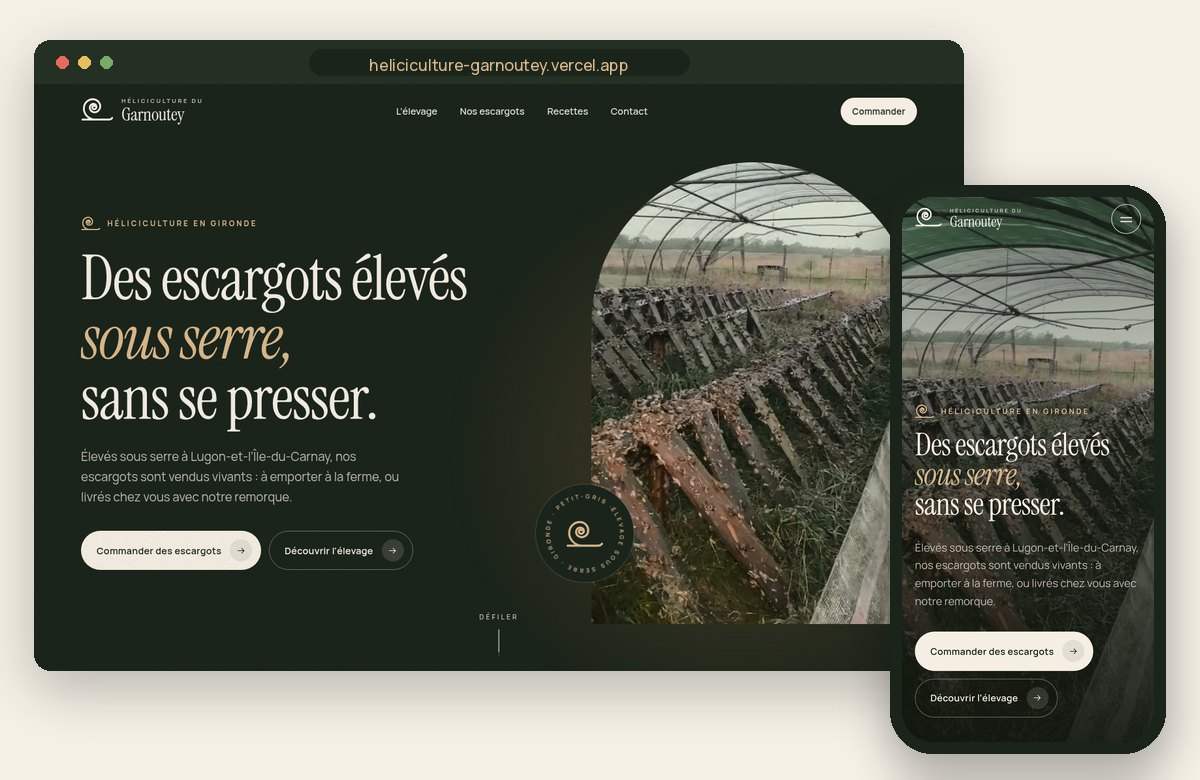
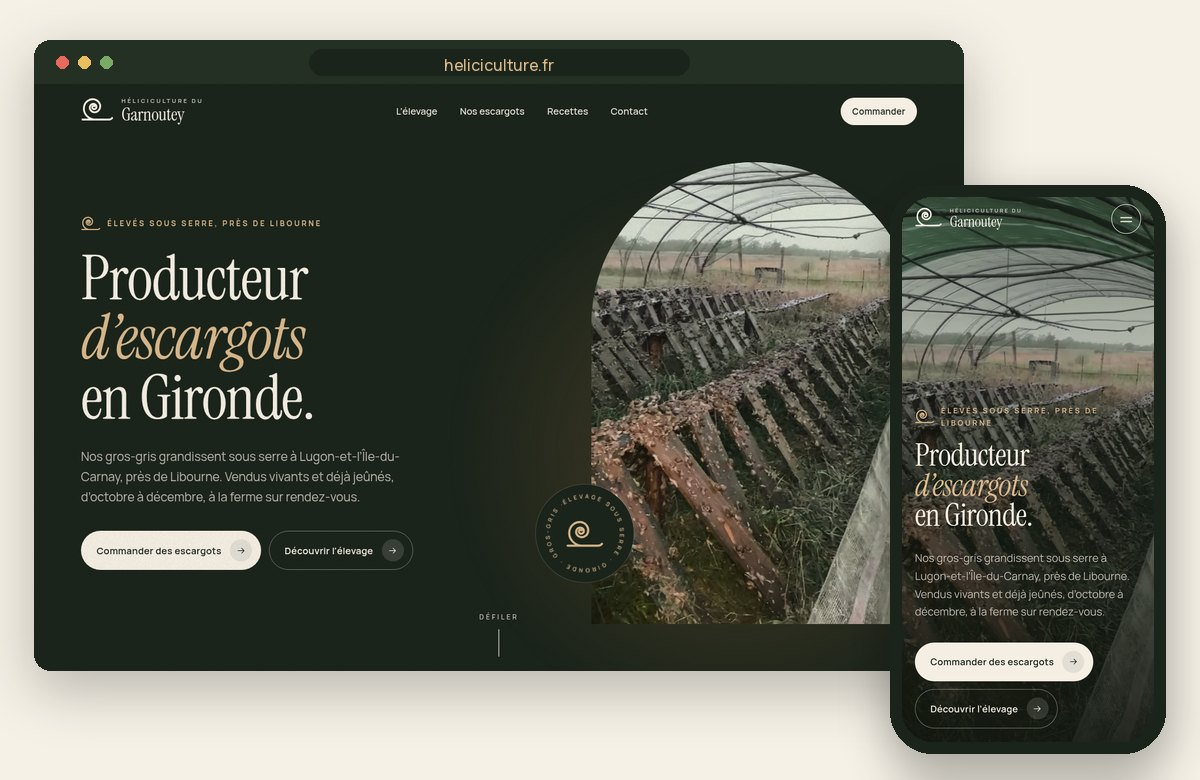
Héliciculture : visuels du mail à jour (aperçu du site en ligne), anciens visuels retirés
Claude-Session: https://claude.ai/code/session_0196nDPGppGScQdv3UFR85iJ

diff --git a/heliciculture-garnoutey/tools/mail/Garnoutey-mail.html b/heliciculture-garnoutey/tools/mail/Garnoutey-mail.html
@@ -1,62 +1,47 @@
 <!doctype html>
 <html lang="fr"><head><meta charset="utf-8"><meta name="viewport" content="width=device-width, initial-scale=1">
-<title>Joël, ton site est prêt</title></head>
+<title>Joël, ton site est en ligne</title></head>
 <body style="margin:0;padding:0;background-color:#e9e1d2">
 <div style="margin:0;padding:0;background-color:#e9e1d2">
-<div style="display:none;max-height:0;overflow:hidden;font-size:1px;line-height:1px;color:#e9e1d2">Tes escargots vivants, à emporter à la ferme. Le devis et 6 questions pour le finir.</div>
+<div style="display:none;max-height:0;overflow:hidden;font-size:1px;line-height:1px;color:#e9e1d2">Ton site est en ligne et ouvert à Google. La suite&nbsp;: ta fiche Google, les avis, ton médiateur.</div>
 <table role="presentation" cellspacing="0" cellpadding="0" border="0" width="100%" bgcolor="#e9e1d2" style="background-color:#e9e1d2"><tr><td align="center" style="padding:28px 10px 34px">
 <table role="presentation" cellspacing="0" cellpadding="0" border="0" width="600" bgcolor="#f6f1e7" style="width:100%;max-width:600px;background-color:#f6f1e7;font-family:'Helvetica Neue',Helvetica,Arial,sans-serif;color:#1d1a16">
 
-<tr><td align="center" style="padding:40px 40px 0"><a href="https://heliciculture-garnoutey.vercel.app" target="_blank"><img src="https://heliciculture-garnoutey.vercel.app/mail/logo.png" width="300" alt="Héliciculture du Garnoutey" style="display:block;width:300px;max-width:100%;height:auto;border:0;margin:0 auto"></a></td></tr>
+<tr><td align="center" style="padding:40px 40px 0"><a href="https://heliciculture.fr" target="_blank"><img src="https://heliciculture.fr/mail/logo.png" width="300" alt="Héliciculture du Garnoutey" style="display:block;width:300px;max-width:100%;height:auto;border:0;margin:0 auto"></a></td></tr>
 <tr><td align="center" style="padding:18px 40px 0">
 <table role="presentation" cellspacing="0" cellpadding="0" border="0" align="center"><tr><td width="44" height="1" bgcolor="#a8743f" style="background-color:#a8743f;font-size:0;line-height:0">&nbsp;</td></tr></table>
 <p style="margin:14px 0 0;font-size:10px;font-weight:bold;letter-spacing:4px;text-transform:uppercase;color:#5e584d">Escargots élevés sous serre · Gironde</p>
 </td></tr>
 
 <tr><td align="center" style="padding:32px 44px 0">
-<h1 style="margin:0 0 14px;font-family:Georgia,'Times New Roman',serif;font-weight:normal;font-size:36px;line-height:1.15;color:#1d1a16">Joël, <em style="color:#a8743f">ton site est prêt.</em></h1>
-<p style="margin:0 0 24px;font-size:15px;line-height:1.7;color:#3a352d">Tes escargots vivants, à emporter à la ferme, et la façon de les préparer. Sur ordinateur comme sur téléphone.</p>
-<table role="presentation" cellspacing="0" cellpadding="0" border="0" align="center"><tr><td bgcolor="#1b241b" style="background-color:#1b241b;border-radius:999px"><a href="https://heliciculture-garnoutey.vercel.app" target="_blank" style="display:inline-block;padding:18px 30px;font-family:'Helvetica Neue',Helvetica,Arial,sans-serif;font-size:12px;font-weight:bold;white-space:nowrap;letter-spacing:2px;text-transform:uppercase;color:#f4eee3;text-decoration:none;border-radius:999px">Découvrir mon site&nbsp;&nbsp;&rarr;</a></td></tr></table>
+<h1 style="margin:0 0 14px;font-family:Georgia,'Times New Roman',serif;font-weight:normal;font-size:36px;line-height:1.15;color:#1d1a16">Joël, <em style="color:#a8743f">ton site est en ligne.</em></h1>
+<p style="margin:0 0 24px;font-size:15px;line-height:1.7;color:#3a352d">Ton site est en ligne à son adresse définitive, et ouvert à Google. Il est fait pour sortir quand on cherche des escargots en Gironde.</p>
+<table role="presentation" cellspacing="0" cellpadding="0" border="0" align="center"><tr><td bgcolor="#1b241b" style="background-color:#1b241b;border-radius:999px"><a href="https://heliciculture.fr" target="_blank" style="display:inline-block;padding:18px 30px;font-family:'Helvetica Neue',Helvetica,Arial,sans-serif;font-size:12px;font-weight:bold;white-space:nowrap;letter-spacing:2px;text-transform:uppercase;color:#f4eee3;text-decoration:none;border-radius:999px">heliciculture.fr&nbsp;&nbsp;&rarr;</a></td></tr></table>
 </td></tr>
 
-<tr><td style="padding:28px 0 0"><a href="https://heliciculture-garnoutey.vercel.app" target="_blank"><img src="https://heliciculture-garnoutey.vercel.app/mail/apercu.jpg" width="600" alt="Aperçu du site sur ordinateur et sur téléphone" style="display:block;width:100%;max-width:600px;height:auto;border:0"></a></td></tr>
+<tr><td style="padding:28px 0 0"><a href="https://heliciculture.fr" target="_blank"><img src="https://heliciculture.fr/mail/apercu.jpg" width="600" alt="Aperçu du site sur ordinateur et sur téléphone" style="display:block;width:100%;max-width:600px;height:auto;border:0"></a></td></tr>
 
 <tr><td style="padding:34px 44px 0">
-<p style="margin:0 0 8px;font-family:'Helvetica Neue',Helvetica,Arial,sans-serif;font-size:10px;font-weight:bold;letter-spacing:4px;text-transform:uppercase;color:#8a5a2b">Ce que ton site va t’apporter</p>
-<p style="margin:0 0 14px;font-family:Georgia,'Times New Roman',serif;font-size:27px;line-height:1.2;color:#1d1a16">Des acheteurs, <em style="color:#a8743f">sans courir après.</em></p>
-<table role="presentation" cellspacing="0" cellpadding="0" border="0" width="100%" style="border-bottom:1px solid #e2d8c5"><tr><td width="40" valign="top" style="padding:13px 0;border-top:1px solid #e2d8c5;font-family:Georgia,'Times New Roman',serif;font-style:italic;font-size:19px;line-height:1.3;color:#a8743f">I.</td><td valign="top" style="padding:13px 0;border-top:1px solid #e2d8c5"><p style="margin:0;font-family:Georgia,'Times New Roman',serif;font-size:19px;line-height:1.3;color:#1d1a16">Trouvé sur Google</p><p style="margin:3px 0 0;font-size:14px;line-height:1.55;color:#5e584d">«&nbsp;escargots vivants Gironde&nbsp;», «&nbsp;héliciculteur Gironde&nbsp;», «&nbsp;escargots pour les fêtes&nbsp;»…</p></td></tr><tr><td width="40" valign="top" style="padding:13px 0;border-top:1px solid #e2d8c5;font-family:Georgia,'Times New Roman',serif;font-style:italic;font-size:19px;line-height:1.3;color:#a8743f">II.</td><td valign="top" style="padding:13px 0;border-top:1px solid #e2d8c5"><p style="margin:0;font-family:Georgia,'Times New Roman',serif;font-size:19px;line-height:1.3;color:#1d1a16">Une offre pour chaque acheteur</p><p style="margin:3px 0 0;font-size:14px;line-height:1.55;color:#5e584d">Particuliers, restaurants et traiteurs, revendeurs.</p></td></tr><tr><td width="40" valign="top" style="padding:13px 0;border-top:1px solid #e2d8c5;font-family:Georgia,'Times New Roman',serif;font-style:italic;font-size:19px;line-height:1.3;color:#a8743f">III.</td><td valign="top" style="padding:13px 0;border-top:1px solid #e2d8c5"><p style="margin:0;font-family:Georgia,'Times New Roman',serif;font-size:19px;line-height:1.3;color:#1d1a16">Commander en deux minutes</p><p style="margin:3px 0 0;font-size:14px;line-height:1.55;color:#5e584d">Le formulaire t’envoie la commande par e-mail, ou on t’appelle directement.</p></td></tr></table>
-</td></tr>
-
-<tr><td style="padding:34px 0 0">
-<table role="presentation" cellspacing="0" cellpadding="0" border="0" width="100%" bgcolor="#1b241b" style="background-color:#1b241b"><tr><td style="padding:32px 44px 34px">
-<p style="margin:0 0 8px;font-family:'Helvetica Neue',Helvetica,Arial,sans-serif;font-size:10px;font-weight:bold;letter-spacing:4px;text-transform:uppercase;color:#d9b88c">Le devis</p>
-<p style="margin:0 0 16px;font-family:Georgia,'Times New Roman',serif;font-size:27px;line-height:1.2;color:#f4eee3">Un prix d’ami, <em style="color:#d9b88c">en 3&nbsp;fois.</em></p>
-<table role="presentation" cellspacing="0" cellpadding="0" border="0" width="100%" style="border-top:1px solid #2f3a2e;border-bottom:1px solid #2f3a2e"><tr>
-<td style="padding:16px 0 18px">
-<p style="margin:0;font-size:12px;letter-spacing:1px;text-transform:uppercase;color:#aaa596">Prix habituel <span style="text-decoration:line-through;white-space:nowrap">1&nbsp;690&nbsp;€&nbsp;HT</span></p>
-<p style="margin:4px 0 0;font-family:Georgia,'Times New Roman',serif;font-size:40px;line-height:1.1;color:#f4eee3;white-space:nowrap">950&nbsp;€ <span style="font-size:18px;color:#aaa596">HT</span></p>
-<p style="margin:8px 0 0;font-size:14px;line-height:1.6;color:#aaa596">Soit <strong style="color:#f4eee3">3&nbsp;fois 380&nbsp;€&nbsp;TTC</strong>, puis 120&nbsp;€&nbsp;HT par an pour l’hébergement, le nom de domaine et les petites modifications.</p>
-</td></tr></table>
-<p style="margin:16px 0 0;font-size:14px;line-height:1.6;color:#aaa596">Devis en pièce jointe. <strong style="color:#d9b88c">Offerte avec le site&nbsp;:</strong> une liste d’acheteurs près de chez toi, prête à appeler (restaurants, traiteurs, marchés).</p>
-</td></tr></table>
+<p style="margin:0 0 8px;font-family:'Helvetica Neue',Helvetica,Arial,sans-serif;font-size:10px;font-weight:bold;letter-spacing:4px;text-transform:uppercase;color:#8a5a2b">Ce qu’on a fait</p>
+<p style="margin:0 0 14px;font-family:Georgia,'Times New Roman',serif;font-size:27px;line-height:1.2;color:#1d1a16">Un site fait pour <em style="color:#a8743f">être trouvé.</em></p>
+<table role="presentation" cellspacing="0" cellpadding="0" border="0" width="100%" style="border-bottom:1px solid #e2d8c5"><tr><td width="40" valign="top" style="padding:13px 0;border-top:1px solid #e2d8c5;font-family:Georgia,'Times New Roman',serif;font-style:italic;font-size:19px;line-height:1.3;color:#a8743f">I.</td><td valign="top" style="padding:13px 0;border-top:1px solid #e2d8c5"><p style="margin:0;font-family:Georgia,'Times New Roman',serif;font-size:19px;line-height:1.3;color:#1d1a16">Une page par recherche</p><p style="margin:3px 0 0;font-size:14px;line-height:1.55;color:#5e584d">«&nbsp;producteur d’escargots en Gironde&nbsp;», «&nbsp;escargots vivants à vendre&nbsp;», «&nbsp;préparer des escargots vivants&nbsp;».</p></td></tr><tr><td width="40" valign="top" style="padding:13px 0;border-top:1px solid #e2d8c5;font-family:Georgia,'Times New Roman',serif;font-style:italic;font-size:19px;line-height:1.3;color:#a8743f">II.</td><td valign="top" style="padding:13px 0;border-top:1px solid #e2d8c5"><p style="margin:0;font-family:Georgia,'Times New Roman',serif;font-size:19px;line-height:1.3;color:#1d1a16">De quoi donner confiance</p><p style="margin:3px 0 0;font-size:14px;line-height:1.55;color:#5e584d">Un guide pour préparer les escargots, un calculateur «&nbsp;combien en prendre&nbsp;», une page par recette.</p></td></tr><tr><td width="40" valign="top" style="padding:13px 0;border-top:1px solid #e2d8c5;font-family:Georgia,'Times New Roman',serif;font-style:italic;font-size:19px;line-height:1.3;color:#a8743f">III.</td><td valign="top" style="padding:13px 0;border-top:1px solid #e2d8c5"><p style="margin:0;font-family:Georgia,'Times New Roman',serif;font-size:19px;line-height:1.3;color:#1d1a16">Proche de chez toi, sans l’adresse</p><p style="margin:3px 0 0;font-size:14px;line-height:1.55;color:#5e584d">Les temps de route depuis Libourne, Saint-André-de-Cubzac et Bordeaux. L’adresse de la ferme n’apparaît jamais.</p></td></tr></table>
 </td></tr>
 
 <tr><td style="padding:34px 44px 0">
-<p style="margin:0 0 8px;font-family:'Helvetica Neue',Helvetica,Arial,sans-serif;font-size:10px;font-weight:bold;letter-spacing:4px;text-transform:uppercase;color:#8a5a2b">Pour le finir</p>
-<p style="margin:0 0 12px;font-family:Georgia,'Times New Roman',serif;font-size:27px;line-height:1.2;color:#1d1a16">Il ne manque <em style="color:#a8743f">que tes réponses.</em></p>
-<p style="margin:0 0 12px;font-size:14px;line-height:1.6;color:#5e584d">Le site est encore caché de Google&nbsp;: on l’ouvre dès que tu as répondu.</p>
-<table role="presentation" cellspacing="0" cellpadding="0" border="0" width="100%" style="border-bottom:1px solid #e2d8c5"><tr><td width="34" valign="top" style="padding:10px 0;border-top:1px solid #e2d8c5;font-family:Georgia,'Times New Roman',serif;font-style:italic;font-size:15px;color:#a8743f">01</td><td valign="top" style="padding:10px 0;border-top:1px solid #e2d8c5;font-family:'Helvetica Neue',Helvetica,Arial,sans-serif;font-size:14px;line-height:1.55;color:#1d1a16">Le retrait à la ferme&nbsp;: quels jours, quel minimum de commande&nbsp;?</td></tr><tr><td width="34" valign="top" style="padding:10px 0;border-top:1px solid #e2d8c5;font-family:Georgia,'Times New Roman',serif;font-style:italic;font-size:15px;color:#a8743f">02</td><td valign="top" style="padding:10px 0;border-top:1px solid #e2d8c5;font-family:'Helvetica Neue',Helvetica,Arial,sans-serif;font-size:14px;line-height:1.55;color:#1d1a16">Tes prix&nbsp;: à la douzaine, au kilo, et pour les pros&nbsp;?</td></tr><tr><td width="34" valign="top" style="padding:10px 0;border-top:1px solid #e2d8c5;font-family:Georgia,'Times New Roman',serif;font-style:italic;font-size:15px;color:#a8743f">03</td><td valign="top" style="padding:10px 0;border-top:1px solid #e2d8c5;font-family:'Helvetica Neue',Helvetica,Arial,sans-serif;font-size:14px;line-height:1.55;color:#1d1a16">Petits-gris ou gros-gris&nbsp;? Vendus jeûnés&nbsp;? Nourris avec quoi&nbsp;?</td></tr><tr><td width="34" valign="top" style="padding:10px 0;border-top:1px solid #e2d8c5;font-family:Georgia,'Times New Roman',serif;font-style:italic;font-size:15px;color:#a8743f">04</td><td valign="top" style="padding:10px 0;border-top:1px solid #e2d8c5;font-family:'Helvetica Neue',Helvetica,Arial,sans-serif;font-size:14px;line-height:1.55;color:#1d1a16">À quelle période tu en as à vendre, et quand peut-on passer à la ferme&nbsp;?</td></tr><tr><td width="34" valign="top" style="padding:10px 0;border-top:1px solid #e2d8c5;font-family:Georgia,'Times New Roman',serif;font-style:italic;font-size:15px;color:#a8743f">05</td><td valign="top" style="padding:10px 0;border-top:1px solid #e2d8c5;font-family:'Helvetica Neue',Helvetica,Arial,sans-serif;font-size:14px;line-height:1.55;color:#1d1a16">On affiche bien le 06&nbsp;62&nbsp;49&nbsp;83&nbsp;14 et locterra33@gmail.com&nbsp;?</td></tr><tr><td width="34" valign="top" style="padding:10px 0;border-top:1px solid #e2d8c5;font-family:Georgia,'Times New Roman',serif;font-style:italic;font-size:15px;color:#a8743f">06</td><td valign="top" style="padding:10px 0;border-top:1px solid #e2d8c5;font-family:'Helvetica Neue',Helvetica,Arial,sans-serif;font-size:14px;line-height:1.55;color:#1d1a16">Un nom de domaine en tête&nbsp;? Des photos de toi à l’élevage&nbsp;?</td></tr></table>
+<p style="margin:0 0 8px;font-family:'Helvetica Neue',Helvetica,Arial,sans-serif;font-size:10px;font-weight:bold;letter-spacing:4px;text-transform:uppercase;color:#8a5a2b">La suite</p>
+<p style="margin:0 0 12px;font-family:Georgia,'Times New Roman',serif;font-size:27px;line-height:1.2;color:#1d1a16">Pour passer devant, <em style="color:#a8743f">trois choses.</em></p>
+<table role="presentation" cellspacing="0" cellpadding="0" border="0" width="100%" style="border-bottom:1px solid #e2d8c5"><tr><td width="40" valign="top" style="padding:13px 0;border-top:1px solid #e2d8c5;font-family:Georgia,'Times New Roman',serif;font-style:italic;font-size:19px;line-height:1.3;color:#a8743f">1.</td><td valign="top" style="padding:13px 0;border-top:1px solid #e2d8c5"><p style="margin:0;font-family:Georgia,'Times New Roman',serif;font-size:19px;line-height:1.3;color:#1d1a16">Ta fiche Google</p><p style="margin:3px 0 0;font-size:14px;line-height:1.55;color:#5e584d">On la crée cette semaine, avec ton adresse cachée. Google t’envoie un code (SMS, appel ou e-mail) ou te demande une courte vidéo de la ferme. Préviens-nous dès que tu le reçois.</p></td></tr><tr><td width="40" valign="top" style="padding:13px 0;border-top:1px solid #e2d8c5;font-family:Georgia,'Times New Roman',serif;font-style:italic;font-size:19px;line-height:1.3;color:#a8743f">2.</td><td valign="top" style="padding:13px 0;border-top:1px solid #e2d8c5"><p style="margin:0;font-family:Georgia,'Times New Roman',serif;font-size:19px;line-height:1.3;color:#1d1a16">Les avis</p><p style="margin:3px 0 0;font-size:14px;line-height:1.55;color:#5e584d">Une fois la fiche validée, on te prépare une carte avec un QR code à donner à tes clients au retrait.</p></td></tr><tr><td width="40" valign="top" style="padding:13px 0;border-top:1px solid #e2d8c5;font-family:Georgia,'Times New Roman',serif;font-style:italic;font-size:19px;line-height:1.3;color:#a8743f">3.</td><td valign="top" style="padding:13px 0;border-top:1px solid #e2d8c5"><p style="margin:0;font-family:Georgia,'Times New Roman',serif;font-size:19px;line-height:1.3;color:#1d1a16">Ton médiateur de la consommation</p><p style="margin:3px 0 0;font-size:14px;line-height:1.55;color:#5e584d">Il est obligatoire pour vendre aux particuliers. C’est le point le plus urgent.</p></td></tr></table>
 </td></tr>
 
 <tr><td style="padding:26px 44px 36px">
-<p style="margin:0 0 18px;font-size:15px;line-height:1.7;color:#3a352d">Renvoie-moi le devis signé avec tes réponses, et on met le site en ligne dans la semaine.</p>
+<p style="margin:0 0 18px;font-size:15px;line-height:1.7;color:#3a352d">Un site neuf met quelques semaines à monter dans Google. Réponds simplement à ce mail, ou appelle-nous.</p>
 <p style="margin:0 0 4px;font-size:15px;color:#1d1a16">À très vite,</p>
 <p style="margin:0;font-family:Georgia,'Times New Roman',serif;font-size:22px;color:#1d1a16">Driss REDOUANE</p>
 <p style="margin:3px 0 0;font-size:13px;color:#5e584d">Groupe Amane Conseils · <a href="tel:+33695675027" style="color:#8a5a2b;text-decoration:none">06&nbsp;95&nbsp;67&nbsp;50&nbsp;27</a></p>
 </td></tr>
 
 <tr><td align="center" bgcolor="#1b241b" style="background-color:#1b241b;padding:28px 30px 24px">
-<a href="https://heliciculture-garnoutey.vercel.app" target="_blank"><img src="https://heliciculture-garnoutey.vercel.app/mail/logo-sombre.png" width="200" alt="Héliciculture du Garnoutey" style="display:block;width:200px;height:auto;border:0;margin:0 auto 14px"></a>
+<a href="https://heliciculture.fr" target="_blank"><img src="https://heliciculture.fr/mail/logo-sombre.png" width="200" alt="Héliciculture du Garnoutey" style="display:block;width:200px;height:auto;border:0;margin:0 auto 14px"></a>
 <p style="margin:0;font-size:11px;line-height:1.6;color:#aaa596">Site conçu par Groupe Amane Conseils · <a href="https://www.amaneconseils.com" target="_blank" style="color:#aaa596">amaneconseils.com</a></p>
 </td></tr>
 

diff --git a/heliciculture-garnoutey/tools/mail/captures.js b/heliciculture-garnoutey/tools/mail/captures.js
@@ -1,6 +1,6 @@
 // Captures du site en ligne pour les visuels du mail (sans l'intro, animations terminées, vidéo lancée).
 const { chromium } = require('/home/user/heliciculture-garnoutey/source/tests/node_modules/playwright-core');
-const base = process.argv[2] || 'https://heliciculture-garnoutey.vercel.app';
+const base = process.argv[2] || 'https://heliciculture.fr';
 const out = __dirname + '/shots';
 (async () => {
   const b = await chromium.launch({ executablePath: '/opt/pw-browsers/chromium-1194/chrome-linux/chrome', args: ['--autoplay-policy=no-user-gesture-required'] });

diff --git a/heliciculture-garnoutey/tools/mail/mail.py b/heliciculture-garnoutey/tools/mail/mail.py
@@ -1,36 +1,32 @@
 """Mail de présentation du site à Joël (même facture que les mails CLOS, PRISMA et Grandes Tables d'Aquitaine).
 HTML en tableaux de 600 px, styles en ligne, images hébergées avec le site (/mail/), couleurs du site.
 Version courte (demande de Driss, 06/10/2026) : sans la section vidéo, l'essentiel en un écran ou deux.
-Usage : python3 mail.py [adresse du site]   (défaut : https://heliciculture-garnoutey.vercel.app)
+Usage : python3 mail.py [adresse du site]   (défaut : https://heliciculture.fr)
+Version du 19/10/2026 : « ton site est en ligne » (référencement, fiche Google, médiateur), sans devis ni questions.
 Écrit Garnoutey-mail.html (images en ligne), Garnoutey-mail-body.html (contenu du <body>, pour le brouillon),
 Garnoutey-mail.txt (version texte du brouillon) et preview.html (images locales, pour vérifier le rendu)."""
 import os, re, sys
 HERE = os.path.dirname(os.path.abspath(__file__))
 ROOT = os.path.dirname(os.path.dirname(HERE))
-SITE = (sys.argv[1] if len(sys.argv) > 1 else 'https://heliciculture-garnoutey.vercel.app').rstrip('/')
+SITE = (sys.argv[1] if len(sys.argv) > 1 else 'https://heliciculture.fr').rstrip('/')
 
 SANS = "'Helvetica Neue',Helvetica,Arial,sans-serif"
 SERIF = "Georgia,'Times New Roman',serif"
 C = dict(bg='#e9e1d2', card='#f6f1e7', ink='#1d1a16', body='#3a352d', muted='#5e584d', caramel='#8a5a2b', caramel2='#a8743f',
          rule='#e2d8c5', moss='#1b241b', moss_rule='#2f3a2e', ivory='#f4eee3', soft='#d9b88c', grey='#aaa596')
 
-INTRO = 'Tes escargots vivants, à emporter à la ferme, et la façon de les préparer. Sur ordinateur comme sur téléphone.'
+INTRO = 'Ton site est en ligne à son adresse définitive, et ouvert à Google. Il est fait pour sortir quand on cherche des escargots en Gironde.'
 POINTS = [
-    ('I', 'Trouvé sur Google', '« escargots vivants Gironde », « héliciculteur Gironde », « escargots pour les fêtes »…'),
-    ('II', 'Une offre pour chaque acheteur', 'Particuliers, restaurants et traiteurs, revendeurs.'),
-    ('III', 'Commander en deux minutes', 'Le formulaire t’envoie la commande par e-mail, ou on t’appelle directement.'),
+    ('I', 'Une page par recherche', '« producteur d’escargots en Gironde », « escargots vivants à vendre », « préparer des escargots vivants ».'),
+    ('II', 'De quoi donner confiance', 'Un guide pour préparer les escargots, un calculateur « combien en prendre », une page par recette.'),
+    ('III', 'Proche de chez toi, sans l’adresse', 'Les temps de route depuis Libourne, Saint-André-de-Cubzac et Bordeaux. L’adresse de la ferme n’apparaît jamais.'),
 ]
-# devis 2026-HDG-001 : 950 € HT (1 690 € HT au prix habituel, liste d'acheteurs offerte), 3 fois 380 € TTC
-CADEAU = 'une liste d’acheteurs près de chez toi, prête à appeler (restaurants, traiteurs, marchés).'
-QUESTIONS = [
-    'Le retrait à la ferme : quels jours, quel minimum de commande ?',
-    'Tes prix : à la douzaine, au kilo, et pour les pros ?',
-    'Petits-gris ou gros-gris ? Vendus jeûnés ? Nourris avec quoi ?',
-    'À quelle période tu en as à vendre, et quand peut-on passer à la ferme ?',
-    'On affiche bien le 06 62 49 83 14 et locterra33@gmail.com ?',
-    'Un nom de domaine en tête ? Des photos de toi à l’élevage ?',
+SUITE = [
+    ('Ta fiche Google', 'On la crée cette semaine, avec ton adresse cachée. Google t’envoie un code (SMS, appel ou e-mail) ou te demande une courte vidéo de la ferme. Préviens-nous dès que tu le reçois.'),
+    ('Les avis', 'Une fois la fiche validée, on te prépare une carte avec un QR code à donner à tes clients au retrait.'),
+    ('Ton médiateur de la consommation', 'Il est obligatoire pour vendre aux particuliers. C’est le point le plus urgent.'),
 ]
-FIN = 'Renvoie-moi le devis signé avec tes réponses, et on met le site en ligne dans la semaine.'
+FIN = 'Réponds simplement à ce mail, ou appelle-nous.'
 
 
 def button(href, label, bg, fg, pad='18px 30px'):
@@ -74,17 +70,13 @@ def typo_html(h):
 def render(img):
     s = SITE
     points = ''.join(point(*p) for p in POINTS)
-    q_rows = ''.join(
-        f'<tr><td width="34" valign="top" style="padding:10px 0;border-top:1px solid {C["rule"]};font-family:{SERIF};'
-        f'font-style:italic;font-size:15px;color:{C["caramel2"]}">{i:02d}</td>'
-        f'<td valign="top" style="padding:10px 0;border-top:1px solid {C["rule"]};font-family:{SANS};font-size:14px;line-height:1.55;color:{C["ink"]}">{t}</td></tr>'
-        for i, t in enumerate(QUESTIONS, 1))
+    q_rows = ''.join(point(str(i), t, x) for i, (t, x) in enumerate(SUITE, 1))
     return f'''<!doctype html>
 <html lang="fr"><head><meta charset="utf-8"><meta name="viewport" content="width=device-width, initial-scale=1">
-<title>Joël, ton site est prêt</title></head>
+<title>Joël, ton site est en ligne</title></head>
 <body style="margin:0;padding:0;background-color:{C["bg"]}">
 <div style="margin:0;padding:0;background-color:{C["bg"]}">
-<div style="display:none;max-height:0;overflow:hidden;font-size:1px;line-height:1px;color:{C["bg"]}">Tes escargots vivants, à emporter à la ferme. Le devis et 6 questions pour le finir.</div>
+<div style="display:none;max-height:0;overflow:hidden;font-size:1px;line-height:1px;color:{C["bg"]}">Ton site est en ligne et ouvert à Google. La suite : ta fiche Google, les avis, ton médiateur.</div>
 <table role="presentation" cellspacing="0" cellpadding="0" border="0" width="100%" bgcolor="{C["bg"]}" style="background-color:{C["bg"]}"><tr><td align="center" style="padding:28px 10px 34px">
 <table role="presentation" cellspacing="0" cellpadding="0" border="0" width="600" bgcolor="{C["card"]}" style="width:100%;max-width:600px;background-color:{C["card"]};font-family:{SANS};color:{C["ink"]}">
 
@@ -95,42 +87,27 @@ def render(img):
 </td></tr>
 
 <tr><td align="center" style="padding:32px 44px 0">
-<h1 style="margin:0 0 14px;font-family:{SERIF};font-weight:normal;font-size:36px;line-height:1.15;color:{C["ink"]}">Joël, <em style="color:{C["caramel2"]}">ton site est prêt.</em></h1>
+<h1 style="margin:0 0 14px;font-family:{SERIF};font-weight:normal;font-size:36px;line-height:1.15;color:{C["ink"]}">Joël, <em style="color:{C["caramel2"]}">ton site est en ligne.</em></h1>
 <p style="margin:0 0 24px;font-size:15px;line-height:1.7;color:{C["body"]}">{INTRO}</p>
-{button(s, 'Découvrir mon site&nbsp;&nbsp;&rarr;', C["moss"], C["ivory"])}
+{button(s, 'heliciculture.fr&nbsp;&nbsp;&rarr;', C["moss"], C["ivory"])}
 </td></tr>
 
 <tr><td style="padding:28px 0 0"><a href="{s}" target="_blank"><img src="{img}/apercu.jpg" width="600" alt="Aperçu du site sur ordinateur et sur téléphone" style="display:block;width:100%;max-width:600px;height:auto;border:0"></a></td></tr>
 
 <tr><td style="padding:34px 44px 0">
-{eyebrow('Ce que ton site va t’apporter', C["caramel"])}
-<p style="margin:0 0 14px;font-family:{SERIF};font-size:27px;line-height:1.2;color:{C["ink"]}">Des acheteurs, <em style="color:{C["caramel2"]}">sans courir après.</em></p>
+{eyebrow('Ce qu’on a fait', C["caramel"])}
+<p style="margin:0 0 14px;font-family:{SERIF};font-size:27px;line-height:1.2;color:{C["ink"]}">Un site fait pour <em style="color:{C["caramel2"]}">être trouvé.</em></p>
 <table role="presentation" cellspacing="0" cellpadding="0" border="0" width="100%" style="border-bottom:1px solid {C["rule"]}">{points}</table>
 </td></tr>
 
-<tr><td style="padding:34px 0 0">
-<table role="presentation" cellspacing="0" cellpadding="0" border="0" width="100%" bgcolor="{C["moss"]}" style="background-color:{C["moss"]}"><tr><td style="padding:32px 44px 34px">
-{eyebrow('Le devis', C["soft"])}
-<p style="margin:0 0 16px;font-family:{SERIF};font-size:27px;line-height:1.2;color:{C["ivory"]}">Un prix d’ami, <em style="color:{C["soft"]}">en 3 fois.</em></p>
-<table role="presentation" cellspacing="0" cellpadding="0" border="0" width="100%" style="border-top:1px solid {C["moss_rule"]};border-bottom:1px solid {C["moss_rule"]}"><tr>
-<td style="padding:16px 0 18px">
-<p style="margin:0;font-size:12px;letter-spacing:1px;text-transform:uppercase;color:{C["grey"]}">Prix habituel <span style="text-decoration:line-through;white-space:nowrap">1 690 € HT</span></p>
-<p style="margin:4px 0 0;font-family:{SERIF};font-size:40px;line-height:1.1;color:{C["ivory"]};white-space:nowrap">950 € <span style="font-size:18px;color:{C["grey"]}">HT</span></p>
-<p style="margin:8px 0 0;font-size:14px;line-height:1.6;color:{C["grey"]}">Soit <strong style="color:{C["ivory"]}">3 fois 380 € TTC</strong>, puis 120 € HT par an pour l’hébergement, le nom de domaine et les petites modifications.</p>
-</td></tr></table>
-<p style="margin:16px 0 0;font-size:14px;line-height:1.6;color:{C["grey"]}">Devis en pièce jointe. <strong style="color:{C["soft"]}">Offerte avec le site :</strong> {CADEAU}</p>
-</td></tr></table>
-</td></tr>
-
 <tr><td style="padding:34px 44px 0">
-{eyebrow('Pour le finir', C["caramel"])}
-<p style="margin:0 0 12px;font-family:{SERIF};font-size:27px;line-height:1.2;color:{C["ink"]}">Il ne manque <em style="color:{C["caramel2"]}">que tes réponses.</em></p>
-<p style="margin:0 0 12px;font-size:14px;line-height:1.6;color:{C["muted"]}">Le site est encore caché de Google : on l’ouvre dès que tu as répondu.</p>
+{eyebrow('La suite', C["caramel"])}
+<p style="margin:0 0 12px;font-family:{SERIF};font-size:27px;line-height:1.2;color:{C["ink"]}">Pour passer devant, <em style="color:{C["caramel2"]}">trois choses.</em></p>
 <table role="presentation" cellspacing="0" cellpadding="0" border="0" width="100%" style="border-bottom:1px solid {C["rule"]}">{q_rows}</table>
 </td></tr>
 
 <tr><td style="padding:26px 44px 36px">
-<p style="margin:0 0 18px;font-size:15px;line-height:1.7;color:{C["body"]}">{FIN}</p>
+<p style="margin:0 0 18px;font-size:15px;line-height:1.7;color:{C["body"]}">Un site neuf met quelques semaines à monter dans Google. {FIN}</p>
 <p style="margin:0 0 4px;font-size:15px;color:{C["ink"]}">À très vite,</p>
 <p style="margin:0;font-family:{SERIF};font-size:22px;color:{C["ink"]}">Driss REDOUANE</p>
 <p style="margin:3px 0 0;font-size:13px;color:{C["muted"]}">Groupe Amane Conseils · <a href="tel:+33695675027" style="color:{C["caramel"]};text-decoration:none">06 95 67 50 27</a></p>
@@ -150,22 +127,19 @@ def render(img):
 
 def texte():
     pts = '\n'.join(f'{n}. {t} : {x[0].lower() + x[1:]}' for n, t, x in POINTS)
-    qs = '\n'.join(f'{i}. {q}' for i, q in enumerate(QUESTIONS, 1))
-    return f'''Joël, ton site est prêt.
+    suite = '\n'.join(f'{i}. {t} : {x}' for i, (t, x) in enumerate(SUITE, 1))
+    return f'''Joël, ton site est en ligne.
 
 {INTRO}
 {SITE}
 
-Ce que ton site va t’apporter :
+Ce qu’on a fait :
 {pts}
 
-Le devis (en pièce jointe) : 950 € HT au lieu de 1 690 €, soit 3 fois 380 € TTC, puis 120 € HT par an (hébergement, nom de domaine, petites modifications).
-Offerte avec le site : {CADEAU}
+La suite, pour passer devant :
+{suite}
 
-Le site est encore caché de Google : on l’ouvre dès que tu as répondu.
-{qs}
-
-{FIN}
+Un site neuf met quelques semaines à monter dans Google. {FIN}
 
 À très vite,
 Driss REDOUANE

diff --git a/heliciculture-garnoutey/source/build.py b/heliciculture-garnoutey/source/build.py
@@ -116,8 +116,8 @@ for name in videos:
         shutil.copy(os.path.join(here, 'video', f'{name}.{ext}'), os.path.join(out, 'video', f'{name}.{ext}'))
 
 # visuels du mail de présentation (tools/mail/visuels.py), servis en /mail/
-for f in glob.glob(os.path.join(here, 'mail', '*')):
-    if f.lower().endswith(('.jpg', '.png')):
+for f in [os.path.join(here, 'mail', n) for n in ('apercu.jpg', 'logo.png', 'logo-sombre.png')]:
+    if os.path.exists(f):
         os.makedirs(os.path.join(out, 'mail'), exist_ok=True)
         shutil.copy(f, os.path.join(out, 'mail', os.path.basename(f)))
 

diff --git a/heliciculture-garnoutey/tools/mail/visuels.py b/heliciculture-garnoutey/tools/mail/visuels.py
@@ -141,7 +141,7 @@ for i, c in enumerate([(232, 106, 94), (232, 190, 94), (122, 170, 102)]):
     dw.ellipse((22 + i * 22, 16, 34 + i * 22, 28), fill=c)
 dw.rounded_rectangle((sw // 2 - 190, 9, sw // 2 + 190, 35), 13, fill=MOSS)
 f = font('manrope-latin.woff2', 16, 500)
-t = 'heliciculture-garnoutey.vercel.app'
+t = 'heliciculture.fr'
 tw = dw.textlength(t, font=f)
 dw.text((sw // 2 - tw / 2, 13), t, font=f, fill=SOFT)
 win.paste(screen, (0, bar_h))
